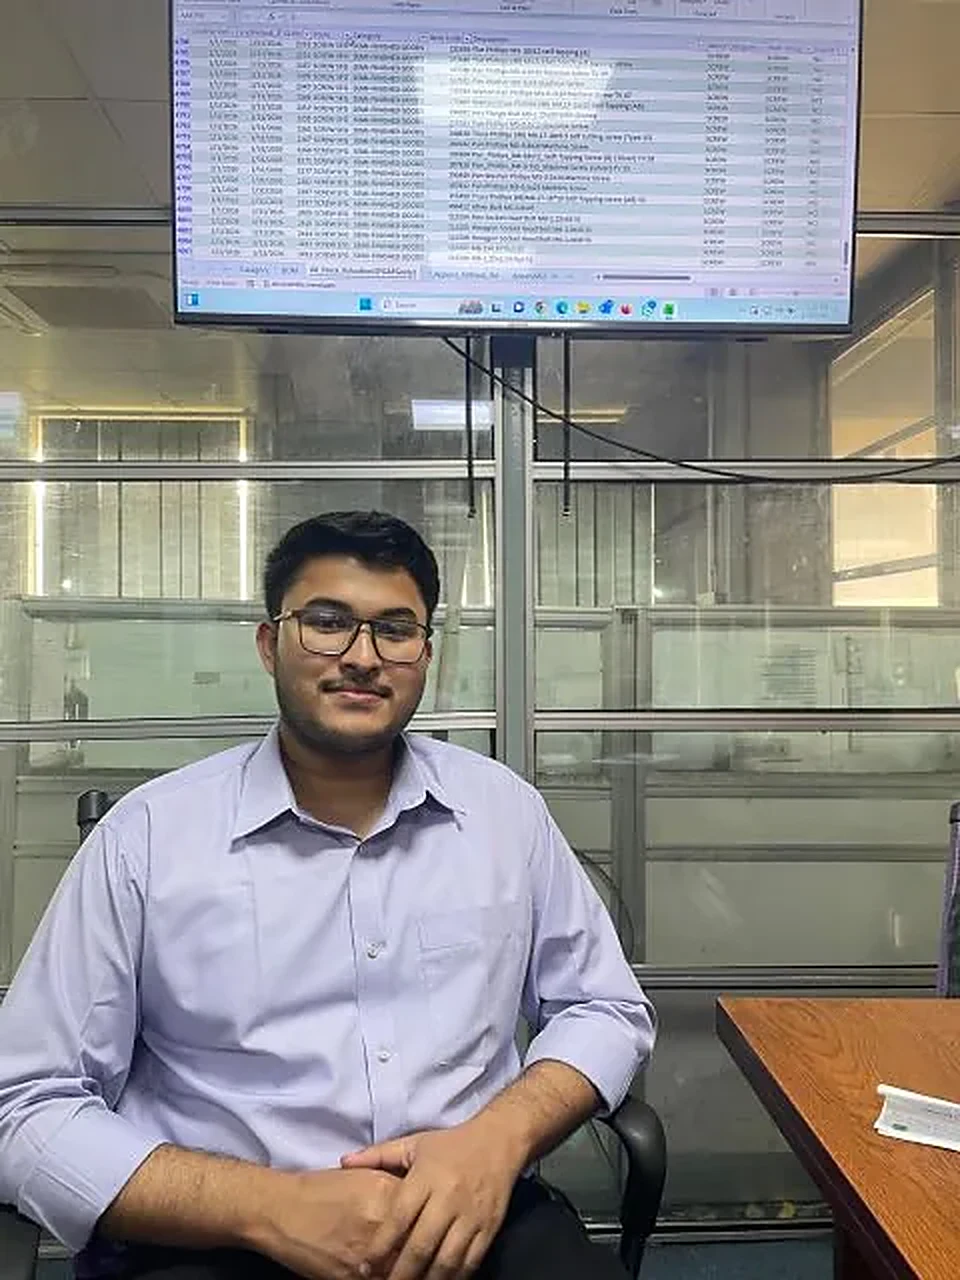
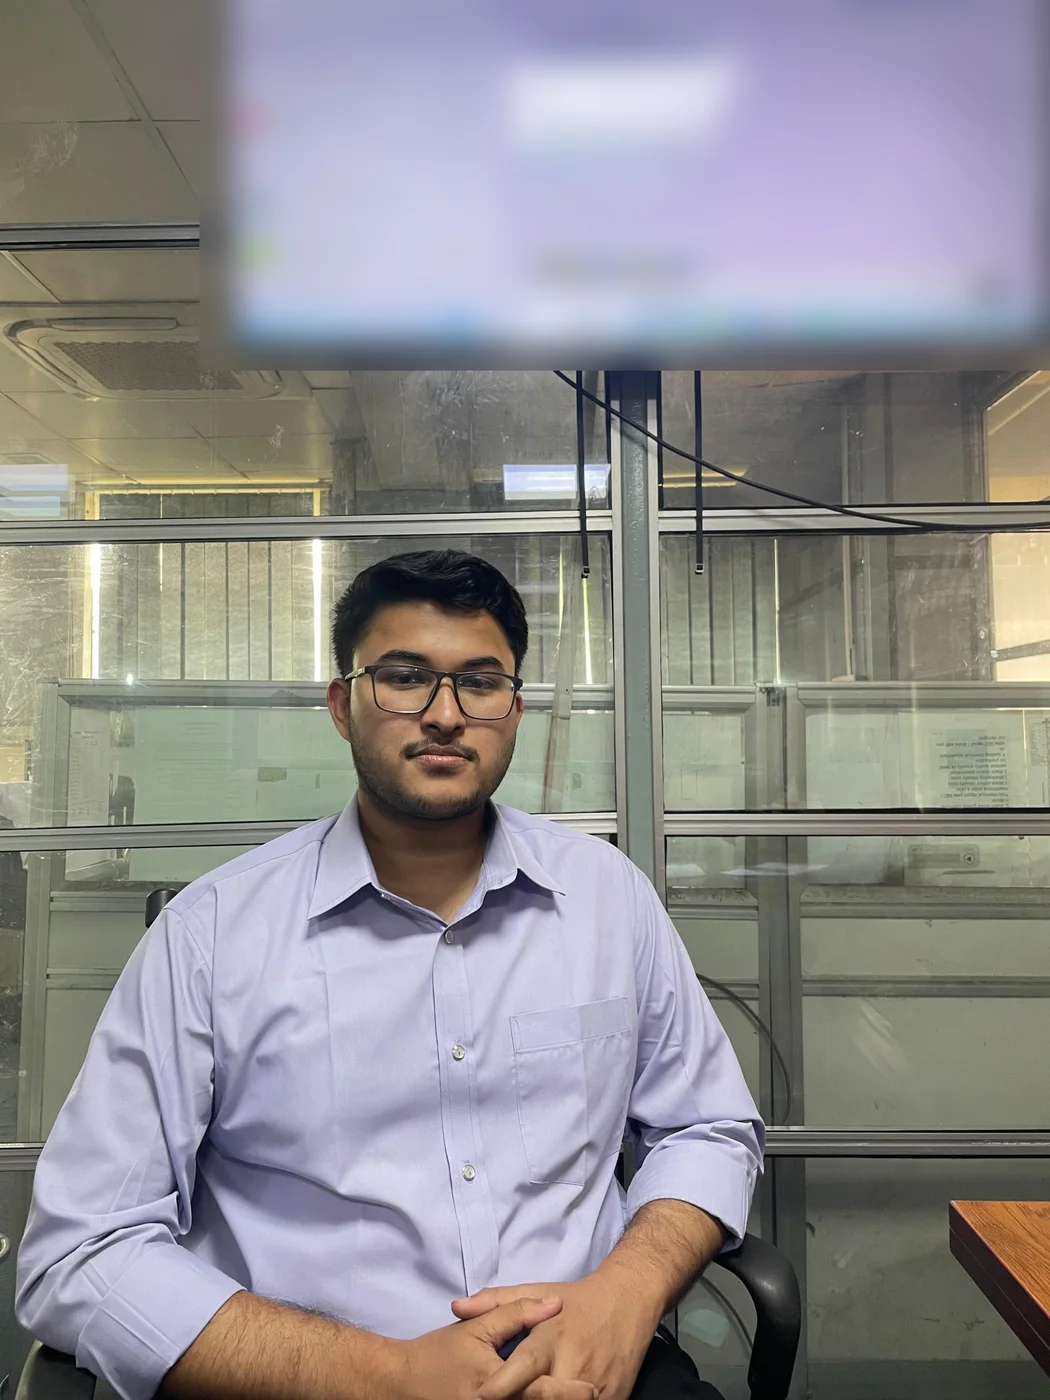
Replace Walton photos with full-size originals; add Square Pabna photo
Claude-Session: https://claude.ai/code/session_01ACsUib3tJCJHuDza1tWCXP

diff --git a/data.js b/data.js
@@ -88,12 +88,15 @@ const SITE = {
         alt: "Walton completion certificate, personal identifiers covered"
       },
       photos: [
-        { src: "img/experience-walton-group-photo-building.webp",  alt: "Trainee group in front of the Walton building" },
-        { src: "img/experience-walton-team-office.webp",           alt: "With the Process Development team in the office" },
-        { src: "img/experience-walton-team-courtyard.webp",        alt: "With fellow trainees in the courtyard" },
-        { src: "img/experience-walton-factory-loading-dock.webp",  alt: "Factory building and loading dock" },
+        { src: "img/experience-walton-trainee-selfie-main-building.webp", alt: "Trainee group selfie in front of the Walton main building" },
+        { src: "img/experience-walton-ashrafe-at-air-conditioner-building.webp", alt: "Ashrafe in front of the Walton Air Conditioner factory building" },
+        { src: "img/experience-walton-trainee-group-helipad.webp", alt: "Trainee group in front of the Walton campus" },
+        { src: "img/experience-walton-trainee-group-with-supervisor.webp", alt: "Trainee group with a supervisor" },
+        { src: "img/experience-walton-fastener-team-office.webp", alt: "With the Fastener team in the office" },
         { src: "img/experience-walton-ashrafe-at-workstation.webp", alt: "At a workstation during the attachment" },
-        { src: "img/experience-walton-team-campus.webp",           alt: "With fellow trainees on the Walton campus" }
+        { src: "img/experience-walton-ashrafe-at-workstation-stock-data.webp", alt: "Working on stock data during the attachment" },
+        { src: "img/experience-walton-ashrafe-at-computer-building.webp", alt: "Ashrafe in front of the Walton Computer building" },
+        { src: "img/experience-walton-factory-loading-dock.webp", alt: "Factory building and loading dock" }
       ]
     }
   ],
@@ -486,7 +489,8 @@ const SITE = {
       date: "18 September 2025",
       text: "Industrial Visit 2.0, which finally went ahead after being postponed. We went through the production lines and saw how quality control and quality assurance testing in the lab keeps hygiene and standards in place.",
       photos: [
-        { src: "img/industrial-visits-industrial-visit-group-photo.webp", alt: "IPE batch group photo during the industrial visit" }
+        { src: "img/industrial-visits-industrial-visit-group-photo.webp", alt: "IPE batch group photo during the industrial visit" },
+        { src: "img/industrial-visits-square-pabna-ashrafe-at-factory.webp", alt: "Ashrafe at the Square Toiletries factory premises, Pabna" }
       ]
     }
   ]

diff --git a/css/style.css b/css/style.css
@@ -274,3 +274,5 @@ button.chip:hover{background:var(--accent);border-color:var(--accent);color:var(
 .shot-fig .thumb img{object-fit:contain;background:var(--surface-2)}
 .thumbs.big{grid-template-columns:repeat(auto-fill,minmax(220px,1fr))}
 @media (max-width:640px){.shots{grid-template-columns:1fr 1fr}.shots.one{grid-template-columns:1fr}}
+
+.thumbs .thumb img{object-position:center 30%}
